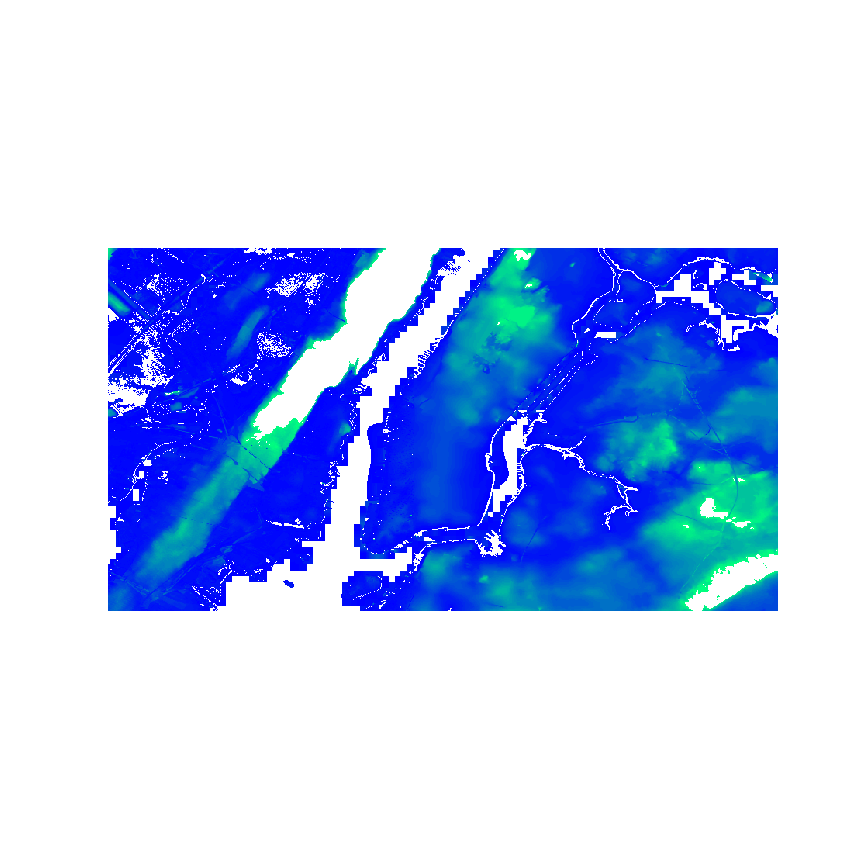
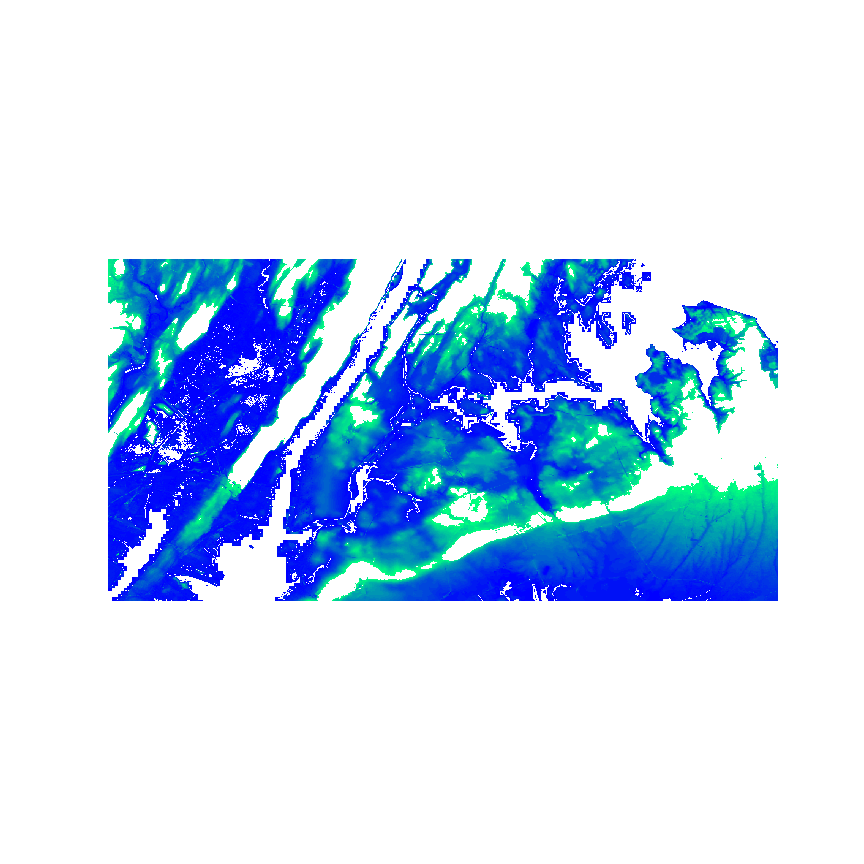
upload ny map and image

Changed region(s): [[0.125, 0.2812, 0.9062, 0.7188]]

diff --git a/templates/ny_test.html b/templates/ny_test.html
@@ -1,0 +1,347 @@
+<!DOCTYPE html>
+<html>
+<head>
+<meta charset="utf-8" />
+<title>Sea Level Rise</title>
+<script src="https://d3js.org/d3.v6.js"></script>
+<script src="https://unpkg.com/d3-simple-slider"></script>
+
+<meta name="viewport" content="initial-scale=1,maximum-scale=1,user-scalable=no" />
+<script src="https://api.mapbox.com/mapbox-gl-js/v1.12.0/mapbox-gl.js"></script>
+<link href="https://api.mapbox.com/mapbox-gl-js/v1.12.0/mapbox-gl.css" rel="stylesheet" />
+<script src="https://code.jquery.com/jquery-1.11.0.min.js"></script>
+
+<link rel="preconnect" href="https://fonts.gstatic.com">
+<link href="https://fonts.googleapis.com/css2?family=Goldman&display=swap" rel="stylesheet">
+<link rel="stylesheet" type="text/css" href="/style.css">
+<link rel="stylesheet" type="text/css" href="slider.css">
+
+</head>
+<body>
+
+<!-- background: linear-gradient(to right, #fca107, #7f3121); -->
+<div id="map" class="map"></div>
+
+<div id="control_panel" class="control_panel" >
+
+        <h2>Sea Rise: <span id="numMeters">0</span> Meters | <span id="numFeet">0</span> Feet</h2>
+        <input id="sea_level" class="seaSlider" type="range" min="0" max="80" step="1" value="0" />
+        <button
+          id="hideButton"
+          onclick="expandPanel()"
+        >Expand + </button>
+
+        </br>
+        </br>
+
+        <button onclick="displayWidget(1)">Widget 1</button>
+        <button onclick="displayWidget(2)">Widget 2</button>
+        <button onclick="displayWidget(3)">Widget 3</button>
+        <button onclick="displayWidget(4)">Widget 4</button>
+          <div class="bar"></div>
+          <div id="chart1">
+            <h2> NOAA projected Sea Level Rise by 2200</h2>
+            <h3> Carbon Emissions </h3>
+            <select id="selectButton"></select>
+          </div>
+
+          <div id="chart2">
+          <!-- escavic -->
+          <div class="container">
+                  <h3> Years: <span id="chart2yearsText">0</span></h3>
+                  <input id="chart2years" class="seaSlider" type="range" min="0" max="2000" step="1" value="0" />
+          <h12>Total CO2 Emissions(Tons): <span id="COO2text">0</span></h2>
+              <h2>🚗 Cars Per Year(M): <span id="slider1textmin">0</span> = 🏭 CO2 (Tons): <span id="slider1textemission">0</span></h2>
+              <div id="slider1" class="slider"></div>
+              <h2>✈ Airplane Mi Per Year(M): <span id="slider2textmin">0</span> = 🏭 CO2 (Tons): <span id="slider2textemission">0</span></h2>
+              <div id="slider2" class="slider"></div>
+              <h2>🍔 Burgers Per Year(M): <span id="slider3textmin">0</span> = 🏭 CO2 (Tons): <span id="slider3textemission">0</span></h2>
+              <div id="slider3" class="slider"></div>
+              <h2>🌲 Trees Planted Per Year(K): <span id="slider4textmin">0</span> = 🏭 CO2 (Tons): <span id="slider4textemission">0</span></h2>
+              <div id="slider4" class="slider"></div>
+              <h2>☀ Solar Panels Installed Per Year(K): <span id="slider5textmin">0</span> = 🏭 CO2 (Tons): <span id="slider5textemission">0</span></h2>
+              <div id="slider5" class="slider"></div>
+          </div>
+
+        </div>
+
+        <div id="chart3">
+            <div id="main-container" class="clearfix">
+                  <h3> Years: <span id="chart3yearsText">0</span></h3>
+                  <input id="chart3years" class="seaSlider" type="range" min="0" max="2000" step="1" value="0" />
+                <div id="slider">
+                    <h1>Pollutions by Industry Sector</h1>
+                    <p>If that industry is gone..</p>
+                </div>
+                <div id="pie"></div>
+            </div>
+        </div>
+
+    <div id="chart4">
+      <h3> Year: <span id="chart4yearsText">2018</span></h3>
+      <input id="chart4years" class="seaSlider" type="range" min="2018" max="2200" step="1" value="2018">
+      <h2> CO2 Emissions by Country (gt) in 2018 </h2>
+      <div align = center> Change in CO2 Emissions(gt): <output class="output" id="ttl"></output></div>
+      <div></div>
+      <div id="sliderdiv">
+          <form id="sliderForm">
+              <label for slider 1> China </label><br>
+              <input class="yslider" id="yslider1" type="range" min="0" max="20" step="1" value="10.1"/>
+              <br>
+              <label for slider 3> Europe </label><br>
+              <input class="yslider" id="yslider3" type="range" min="0" max="20" step="1" value="5.6"/>
+              <br>
+              <label for slider 4> United States </label><br>
+              <input class="yslider" id="yslider4" type="range" min="0" max="20" step="1" value="5.4"/>
+              <br>
+              <label for slider 5> India </label><br>
+              <input class="yslider" id="yslider5" type="range" min="0" max="20" step="1" value="2.66"/>
+              <br>
+              <label for slider 6> Russia </label><br>
+              <input class="yslider" id="yslider6" type="range" min="0" max="20" step="1" value="1.7"/>
+              <br>
+              <label for slider 7> Japan </label><br>
+              <input class="yslider" id="yslider7" type="range" min="0" max="20" step="1" value="1.2"/>
+              <br>
+              <label for slider 2> Rest of the World </label><br>
+              <input class="yslider" id="yslider2" type="range" min="0" max="20" step="1" value="9.9"/>
+              <br>
+              <input type="button" onclick="resetFunction()" value="Reset">
+          </form>
+      </div>
+      <div class="spacer"></div>
+   </div>
+</div>
+
+<script>
+
+//global variable, wait until loaded
+var MASKS_LOADED = false;
+
+//expand or hide control panel widgets
+var hidden = true;
+expandPanel = function() {
+    var div = document.getElementById("control_panel");
+    var button = document.getElementById("hideButton");
+    if (hidden === false){
+      hidden = true;
+      div.style.height = "110px";
+      button.innerText = "Expand +"
+    } else{
+      hidden = false;
+      div.style.height = "900px";
+      button.innerText = "Hide -"
+    }
+};
+
+//initially set all charts as invisible (except 1)
+var c1 = document.getElementById("chart1");
+var c2 = document.getElementById("chart2");
+var c3 = document.getElementById("chart3");
+var c4 = document.getElementById("chart4");
+
+c2.style.display = "none";
+c3.style.display = "none";
+c4.style.display = "none";
+
+
+//display / switch which widget is visible
+displayWidget = function(x){
+
+  c1.style.display = "none";
+  c2.style.display = "none";
+  c3.style.display = "none";
+  c4.style.display = "none";
+
+  switch(x) {
+  case 1:
+    c1.style.display = "block";
+    break;
+  case 2:
+    c2.style.display = "block";
+    break;
+  case 3:
+    c3.style.display = "block";
+    break;
+  case 4:
+    c4.style.display = "block";
+    break;
+  default:
+    // code block
+    break;
+  }
+};
+
+
+//MAPBOX SETUP
+	mapboxgl.accessToken = 'pk.eyJ1IjoiZXNjYWRhd2ciLCJhIjoiY2tmdmdrZGhkMTYzZDJ6czMyNWo0eWZmNCJ9.XAG-cdhWcLN2IEFAP6bCbg';
+var map = new mapboxgl.Map({
+container: 'map', // container id
+//style: 'mapbox://styles/mapbox/streets-v11', // style URL
+style: 'mapbox://styles/mapbox/satellite-streets-v11',
+center: [-73.99, 40.74], // starting position [lng, lat]
+// center: [-73.905, 40.775], // starting position [lng, lat]
+zoom: 11.5, // starting zoom
+pitch: 45
+});
+
+
+//SETUP MASKS VIA COORDINATES
+//-122.44 47.51 -122.24 47.71
+// coordinates = [
+//   [-122.44, 47.71], //top_left
+//   [-122.24, 47.71], //top_right
+//   [-122.24, 47.51], //bottom_right
+//   [-122.44, 47.51], //bottom_left
+// ];
+
+// -74.15 40.65 -73.66 40.90
+coordinates = [
+    [-74.15, 40.90],
+    [-73.66, 40.90],
+    [-73.66, 40.65],
+    [-74.15, 40.65],
+];
+
+
+//stretch our image
+// var t_lng = 0.0335; //stretches left and right
+// var t_lat = 0.032; //stretches up and down
+
+var t_lng = 0.081; //stretches left and right
+var t_lat = 0.186; //stretches up and down
+
+
+//translate top_left
+coordinates[0][0] -= t_lng;
+coordinates[0][1] += t_lat;
+
+//translate top right
+coordinates[1][0] += t_lng;
+coordinates[1][1] += t_lat;
+
+//translate bottom right
+coordinates[2][0] += t_lng;
+coordinates[2][1] -= t_lat;
+
+//translate bottom left
+coordinates[3][0] -= t_lng;
+coordinates[3][1] -= t_lat;
+
+//move left
+var move_left = 0.004;
+coordinates[0][0] -= move_left;
+coordinates[1][0] -= move_left;
+coordinates[2][0] -= move_left;
+coordinates[3][0] -= move_left;
+
+//move down
+var move_down = 0.0001;
+coordinates[0][1] -= move_down;
+coordinates[1][1] -= move_down;
+coordinates[2][1] -= move_down;
+coordinates[3][1] -= move_down;
+
+
+//generate our dataset
+//TODO: load our dataset from json
+masks = [];
+for (var i = 0; i < 80; i += 1){
+  var istr = i.toString();
+  var d = {
+    source:"source_"+istr,
+    id:"image_"+istr,
+    url:"/masks/ny_"+istr+".png",
+    coordinates: coordinates,
+  }
+  masks.push(d);
+}
+
+map.on('load', function () {
+
+  //add each of our masks
+  for (var i = 0; i < masks.length; i++){
+    var d = masks[i];
+
+    //add images
+    map.addSource(d["source"], {
+    "type": "image",
+    "url": d["url"],
+    "coordinates": d["coordinates"],
+    });
+
+    map.addLayer({
+    "id": d["id"],
+    "source": d["source"],
+    "type": "raster",
+    "layout":{
+      "visibility":"none",
+    },
+    "paint": {
+      "raster-opacity": 0.5
+      }
+    });
+  }
+  MASKS_LOADED = true;
+
+
+  var first_mask_id = masks[0]["id"];
+
+  var prev_idg = first_mask_id;
+  //set our initial layer as visible
+  //map.setLayoutProperty(prev_idg, 'visibility', 'visible');
+
+  document
+    .getElementById('sea_level')
+    .addEventListener('input', function (e) {
+      var meters = parseInt(e.target.value, 10);
+      var numMeters = document.getElementById("numMeters");
+      numMeters.textContent = meters;
+      var numFeet = document.getElementById("numFeet");
+      var feet = meters * 3.281; //approximate conversion from
+      numFeet.textContent = feet.toFixed(1);
+
+      map.setLayoutProperty(prev_idg, 'visibility', 'none');
+      if (meters > 0){
+        meters -= 1;
+        var idg = "image_"+meters.toString();
+        //console.log(idg);
+        map.setLayoutProperty(idg, 'visibility', 'visible');
+        prev_idg = idg;
+      }
+
+    });
+
+
+  // contours to map
+  map.addSource('contours', {
+    type: 'vector',
+    url: 'mapbox://mapbox.mapbox-terrain-v2'
+  });
+  map.addLayer({
+    'id': 'contours',
+    'type': 'line',
+    'source': 'contours',
+    'source-layer': 'contour',
+    'layout': {
+    // make layer visible by default
+      'visibility': 'visible',
+      'line-join': 'round',
+      'line-cap': 'round'
+    },
+    'paint': {
+      'line-color': '#877b59',
+      'line-width': 1
+    }
+  });
+
+});
+
+</script>
+
+<script type="text/javascript" src="/js/chart1.js" ></script>
+<script type="text/javascript" src="/js/chart2.js" ></script>
+<script type="text/javascript" src="/js/chart3.js" ></script>
+<script type="text/javascript" src="/js/chart4.js" ></script>
+</body>
+</html>
